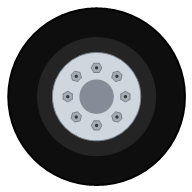
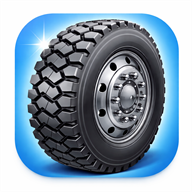
アイコン画像を新規画像へ差し替え

diff --git a/sw.js b/sw.js
@@ -1,13 +1,11 @@
-const CACHE_NAME = "monthly-tire-check-v2";
+const CACHE_NAME = "monthly-tire-check-v3";
 const ASSETS = [
   "./",
   "./index.html",
   "./manifest.webmanifest",
   "./sw.js",
   "./icons/tire-192.png",
-  "./icons/tire-512.png",
-  "./icons/icon-192.svg",
-  "./icons/icon-512.svg"
+  "./icons/tire-512.png"
 ];
 
 self.addEventListener("install", (event) => {
